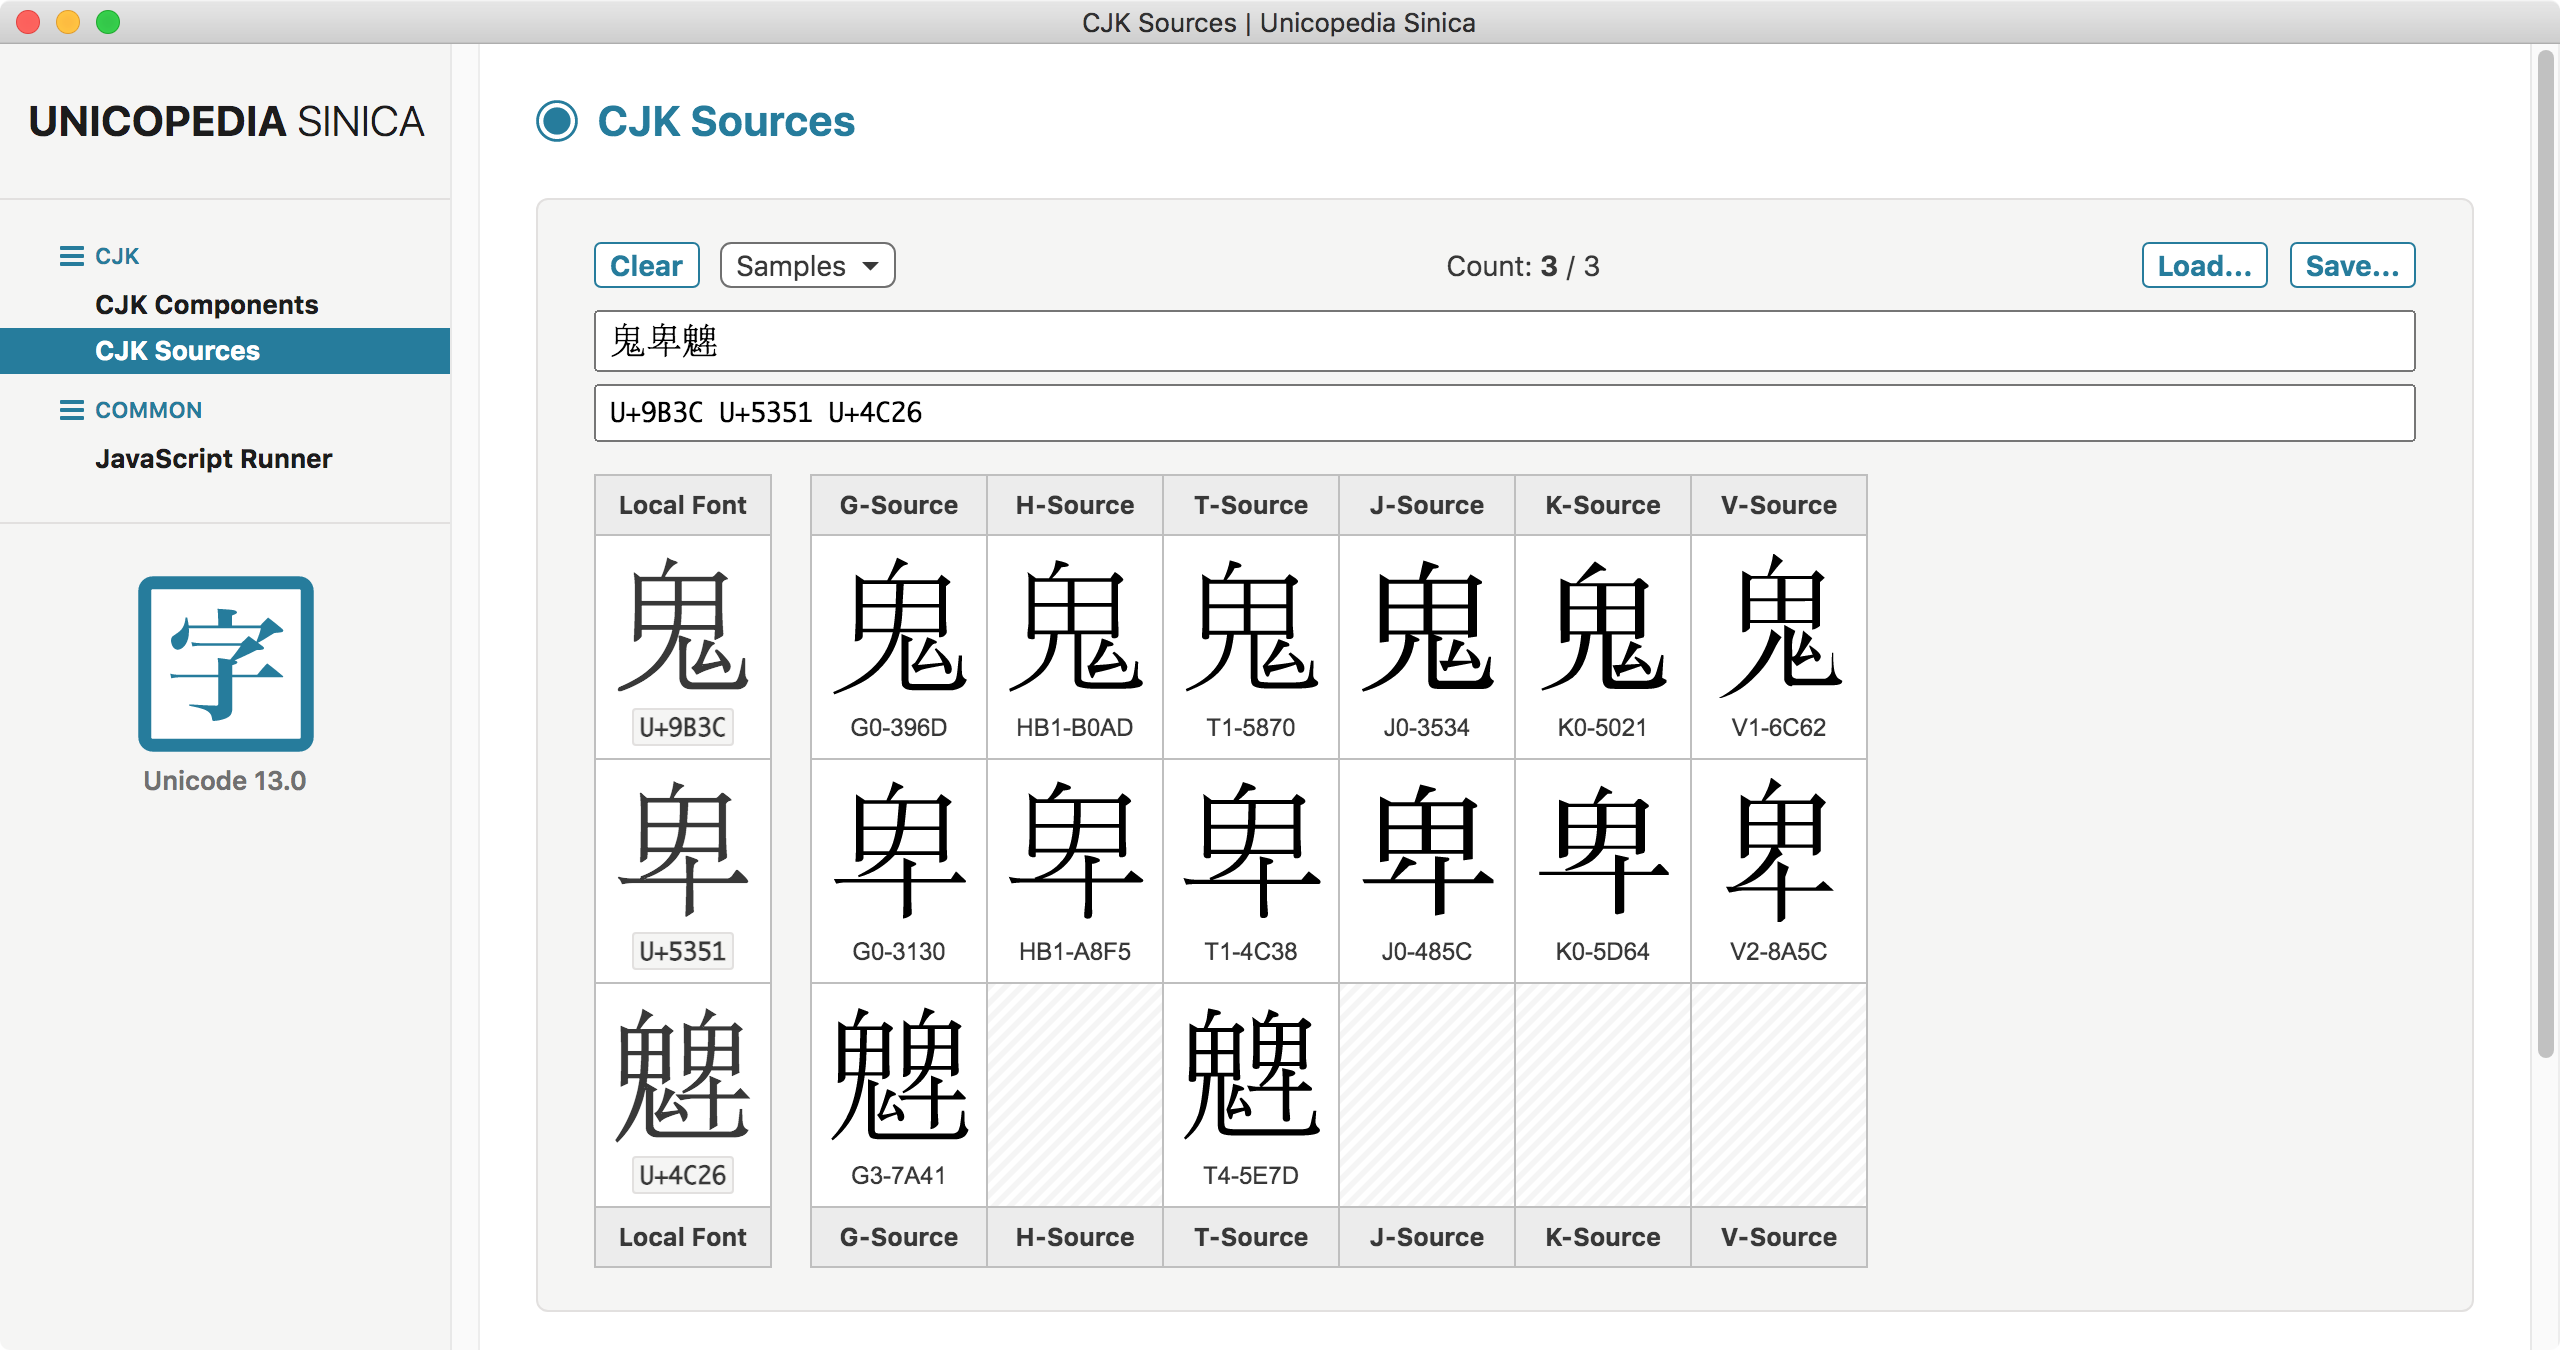
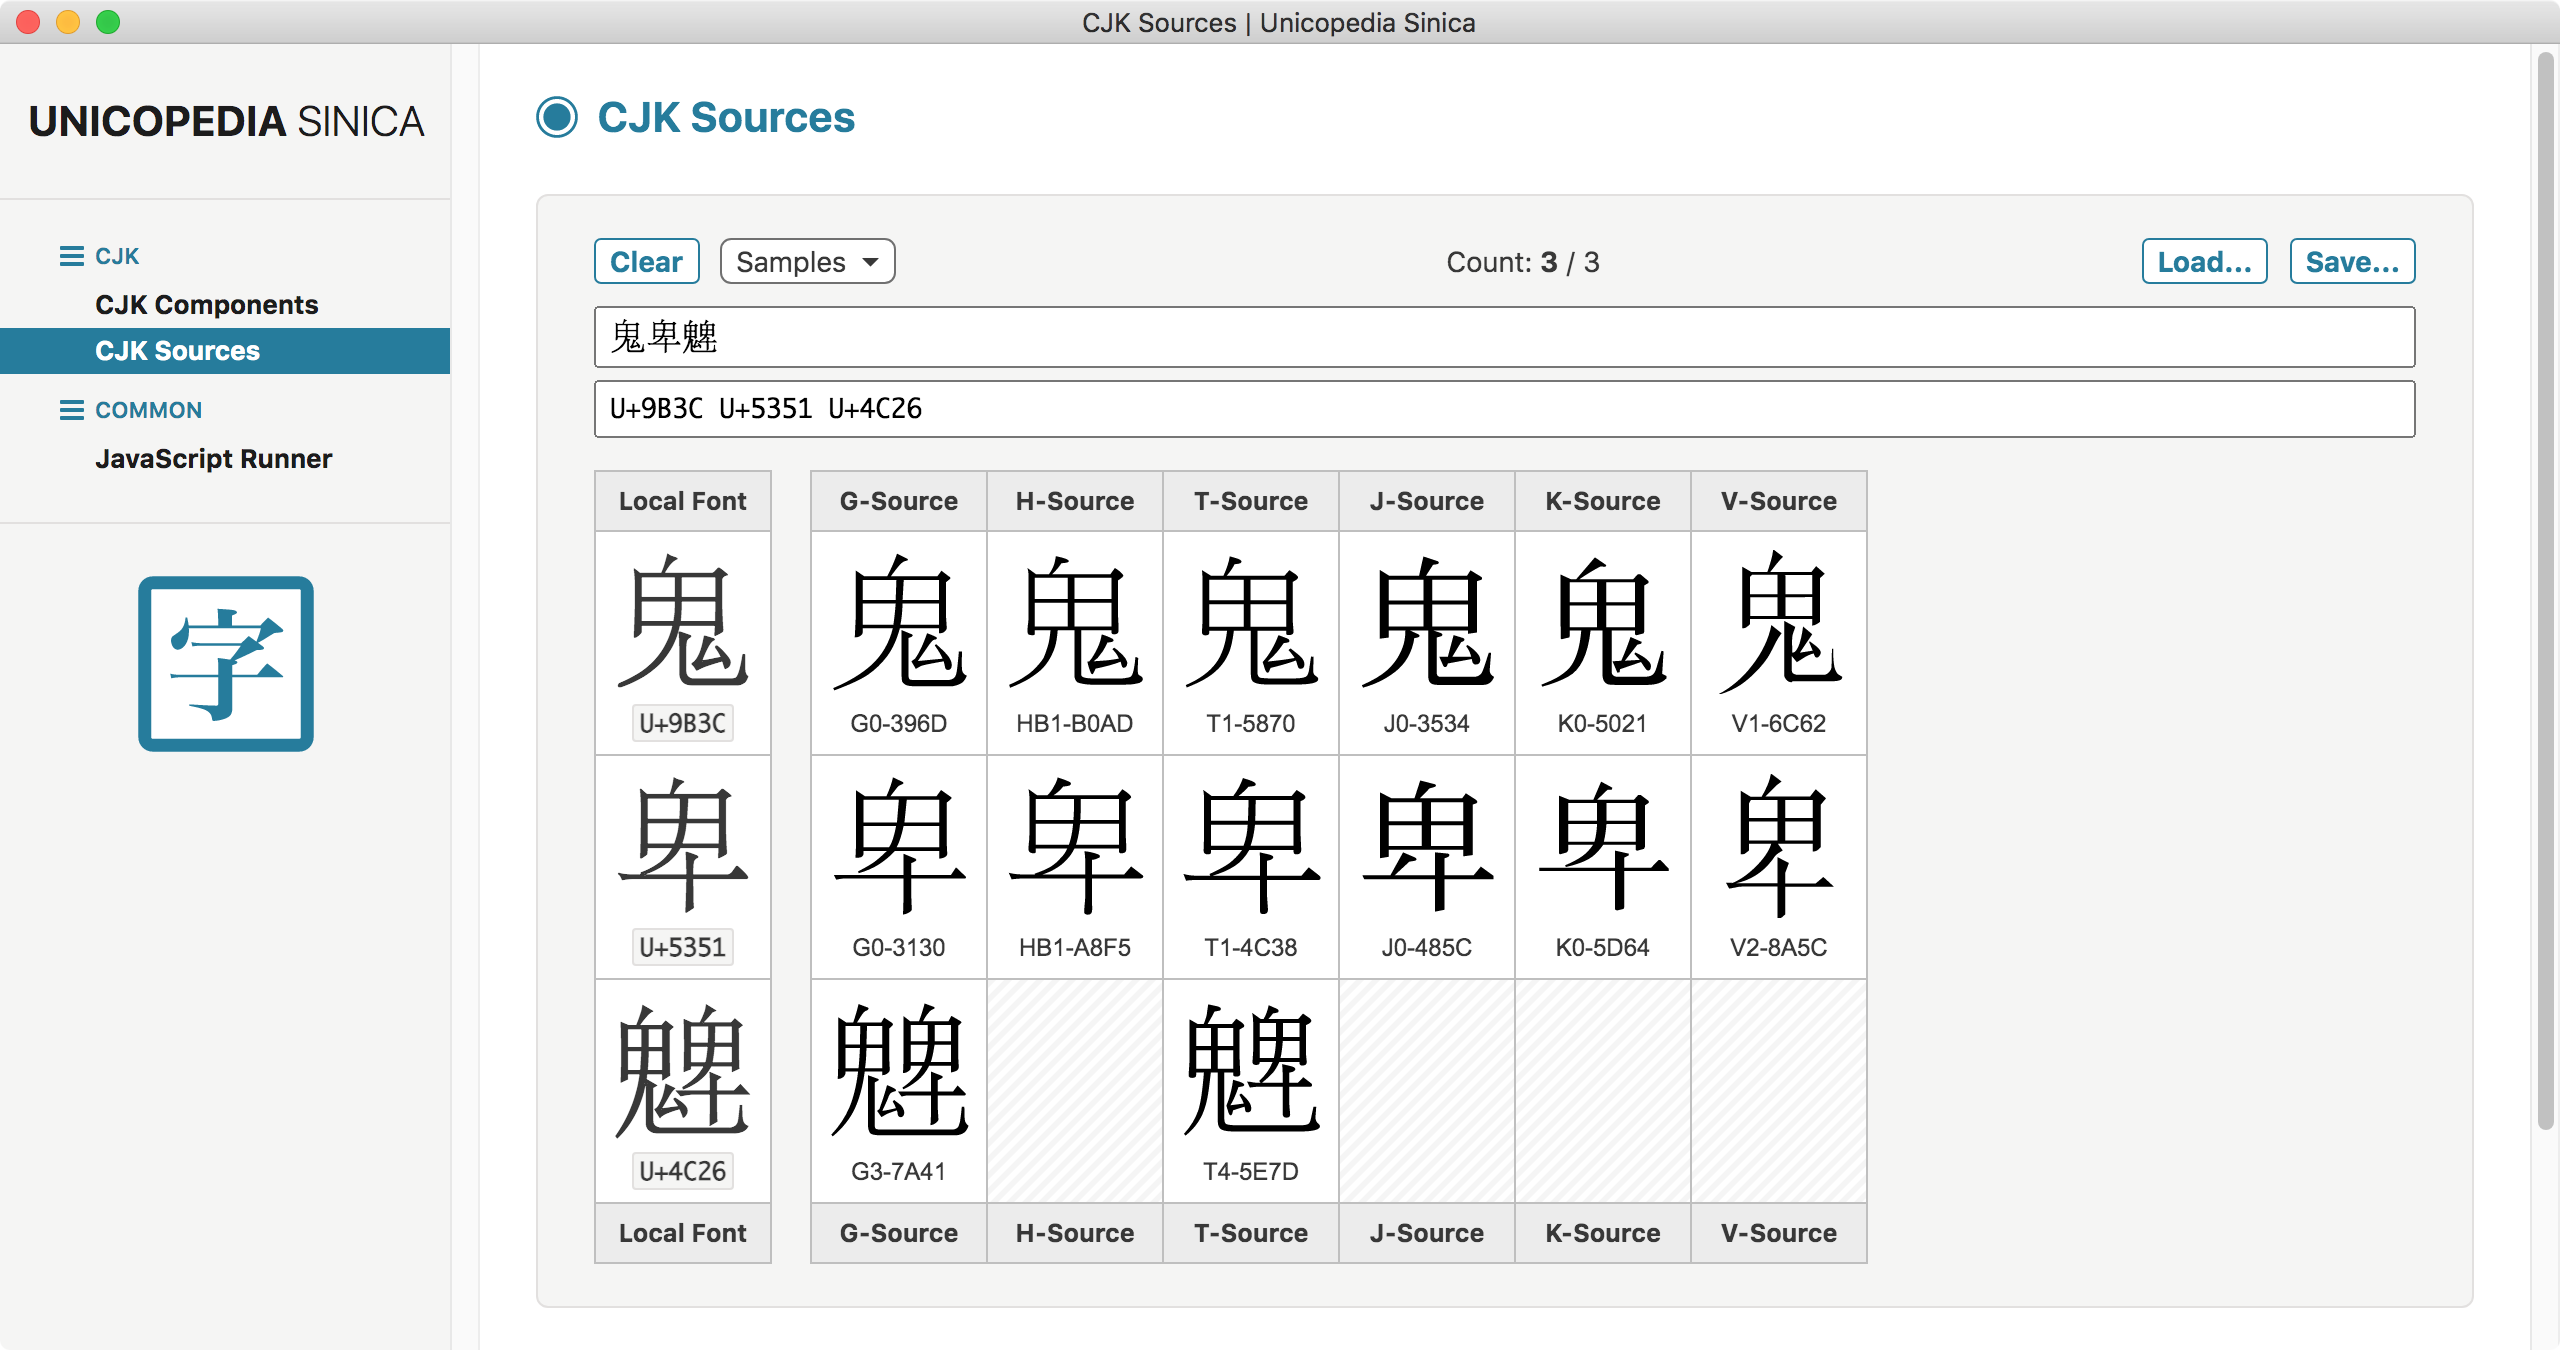
Updated app to 1.1.0

diff --git a/renderer/units/CJK Sources/import.html b/renderer/units/CJK Sources/import.html
@@ -49,6 +49,13 @@
                     </ul>
                 </li>
                 <li>This is especially useful for comparison purposes between related character glyphs.</li>
+                <li>For best display results, most recent versions of the following fonts should be downloaded and installed at the OS level:
+                    <ul>
+                        <li><a title="https://www.babelstone.co.uk/Fonts/Han.html" href="https://www.babelstone.co.uk/Fonts/Han.html">BabelStone Han</a> (<code>BabelStoneHan.ttf</code>)</li>
+                        <li><a title="http://cheonhyeong.com/Simplified/download.html" href="http://cheonhyeong.com/Simplified/download.html">TH-Tshyn</a> (<code>TH-Tshyn-P0.ttf</code>, <code>TH-Tshyn-P1.ttf</code>, <code>TH-Tshyn-P2.ttf</code>, <code>TH-Tshyn-P16.ttf</code>)</li>
+                        <!-- <li><a title="https://github.com/cjkvi/HanaMinAFDKO/releases" href="https://github.com/cjkvi/HanaMinAFDKO/releases">Hanazono Mincho</a> (<code>HanaMinA.otf</code>, <code>HanaMinB.otf</code>, <code>HanaMinC.otf</code>)</li> -->
+                    </ul>
+                </li>
                 <li>CJK characters can be entered either directly in the "Characters" input field, or using a series of code points in hexadecimal format in the "Code points" input field.</li>
                 <li>It is also possible to input predefined strings of CJK characters selected from the <kbd>Samples&nbsp;▾</kbd> pop-up menu.</li>
                 <li>As a convenience, the input fields can be emptied using the <kbd>Clear</kbd> button.</li>

diff --git a/renderer/custom.css b/renderer/custom.css
@@ -9,6 +9,13 @@
     unicode-range: U+00-7F;
 }
 
+@font-face
+{
+    font-family: "BabelStone Han PUA";
+    src: url("ids-fonts/BabelStoneHanPUA.woff2"),
+         url("ids-fonts/BabelStoneHanPUA.woff");
+}
+
 :root
 {
     --color:           hsl(0, 0%, 22%);
@@ -30,4 +37,9 @@
     --system-ui-family: "Segoe UI", system-ui, sans-serif;
     --sans-serif-family: "Segoe UI", Arial, Geneva, Verdana, Tahoma, "DejaVu Sans", "Liberation Sans", "Noto Sans", Ubuntu, sans-serif;
     --ids-family: "BabelStone Han PUA", "BabelStone Han", "TH-Tshyn-P0", "TH-Tshyn-P1", "TH-Tshyn-P2", "TH-Tshyn-P16", "Hanazono Mincho A", "Hanazono Mincho B", "Hanazono Mincho C", serif;
+}
+
+div.unicode-version
+{
+    display: none;
 }

diff --git a/renderer/units/CJK Components/import.js b/renderer/units/CJK Components/import.js
@@ -96,9 +96,8 @@ module.exports.start = function (context)
     const unihanData = require ('../../lib/unicode/parsed-unihan-data.js');
     const kangxiRadicals = require ('../../lib/unicode/kangxi-radicals.json');
     const { fromRadical, fromRadicalStrokes } = require ('../../lib/unicode/get-rs-strings.js');
-    //
-    const { characters, unencodedCharacters } = require ('./parsed-ids-data.js');
-    const ids = require ('./ids.js');
+    const { characters, unencodedCharacters } = require ('../../lib/unicode/parsed-ids-data.js');
+    const ids = require ('../../lib/unicode/ids.js');
     //
     const idsRefLinks = require ('./ids-ref-links.json');
     //

diff --git a/renderer/units/CJK Sources/import.js b/renderer/units/CJK Sources/import.js
@@ -420,7 +420,7 @@ module.exports.start = function (context)
                 {
                     let sourceHeader = document.createElement ('th');
                     sourceHeader.className = 'source';
-                    sourceHeader.textContent = (prefix === "UCS") ? source.source : `${prefix}-Source`;
+                    sourceHeader.textContent = `${prefix}-Source`;
                     sourceHeader.title = source.source;
                     headerRow.appendChild (sourceHeader);
                 }

diff --git a/renderer/units/CJK Components/import.html b/renderer/units/CJK Components/import.html
@@ -109,9 +109,11 @@
                 <div class="search-data"></div>
                 <!-- Temporary -->
                 <div style="text-align: center;">
+                    <br>
                     <svg style="width: 128px; height: 128px;"><use href="/images/symbols.svg#under-construction"></use></svg>
                     <br>
                     <span style="font-weight: bold;">Under Construction</span>
+                    <br>
                 </div>
             </div>
         </div>

diff --git a/renderer/units/JavaScript Runner/samples/IDS/List IDS Unrepresentable Characters.js b/renderer/units/JavaScript Runner/samples/IDS/List IDS Unrepresentable Characters.js
@@ -1,5 +1,5 @@
 // List IDS Unrepresentable Characters
-const { characters } = require ('./units/CJK Components/parsed-ids-data.js');
+const { characters } = require ('./lib/unicode/parsed-ids-data.js');
 const { characterToCodePoint } = require ('./lib/unicode/unicode.js');
 const { coreSet, core2020Set } = require ('./lib/unicode/parsed-unihan-data.js');
 let unrepresentableCharacters = [ ];

diff --git a/renderer/units/JavaScript Runner/samples/IDS/List IDS Indivisible Characters.js b/renderer/units/JavaScript Runner/samples/IDS/List IDS Indivisible Characters.js
@@ -1,5 +1,5 @@
 // List IDS Indivisible Characters
-const { characters } = require ('./units/CJK Components/parsed-ids-data.js');
+const { characters } = require ('./lib/unicode/parsed-ids-data.js');
 const { characterToCodePoint } = require ('./lib/unicode/unicode.js');
 const { coreSet, core2020Set } = require ('./lib/unicode/parsed-unihan-data.js');
 let indivisibleCharacters = [ ];

diff --git a/renderer/units/JavaScript Runner/samples/IDS/Write IDS Data to File.js b/renderer/units/JavaScript Runner/samples/IDS/Write IDS Data to File.js
@@ -1,4 +1,4 @@
 // Write IDS Data to File
-const { characters } = require ('./units/CJK Components/parsed-ids-data.js');
+const { characters } = require ('./lib/unicode/parsed-ids-data.js');
 let jsonFile = $.save ($.stringify (characters, null, 4), 'ids-data.json');
 $.writeln (`Wrote IDS data to JSON file:\n${jsonFile}`);

diff --git a/renderer/units/JavaScript Runner/samples/IDS/List CJK Strokes in IDS.js b/renderer/units/JavaScript Runner/samples/IDS/List CJK Strokes in IDS.js
@@ -1,5 +1,5 @@
 // List CJK Strokes in IDS
-const { characters } = require ('./units/CJK Components/parsed-ids-data.js');
+const { characters } = require ('./lib/unicode/parsed-ids-data.js');
 const { characterToCodePoint } = require ('./lib/unicode/unicode.js');
 let strokeList = [ ];
 for (let character in characters)

diff --git a/renderer/units/JavaScript Runner/samples/IDS/List Radicals in IDS.js b/renderer/units/JavaScript Runner/samples/IDS/List Radicals in IDS.js
@@ -1,5 +1,5 @@
 // List Radicals in IDS
-const { characters } = require ('./units/CJK Components/parsed-ids-data.js');
+const { characters } = require ('./lib/unicode/parsed-ids-data.js');
 const { characterToCodePoint } = require ('./lib/unicode/unicode.js');
 let radicalList = [ ];
 for (let character in characters)

diff --git a/renderer/units/CJK Components/import.css b/renderer/units/CJK Components/import.css
@@ -1,12 +1,5 @@
 @charset "utf-8";
 
-@font-face
-{
-    font-family: "BabelStone Han PUA";
-    src: url("ids-fonts/BabelStoneHanPUA.woff2"),
-         url("ids-fonts/BabelStoneHanPUA.woff");
-}
-
 #cjk-components-unit .tab-bar
 {
     display: flex;
